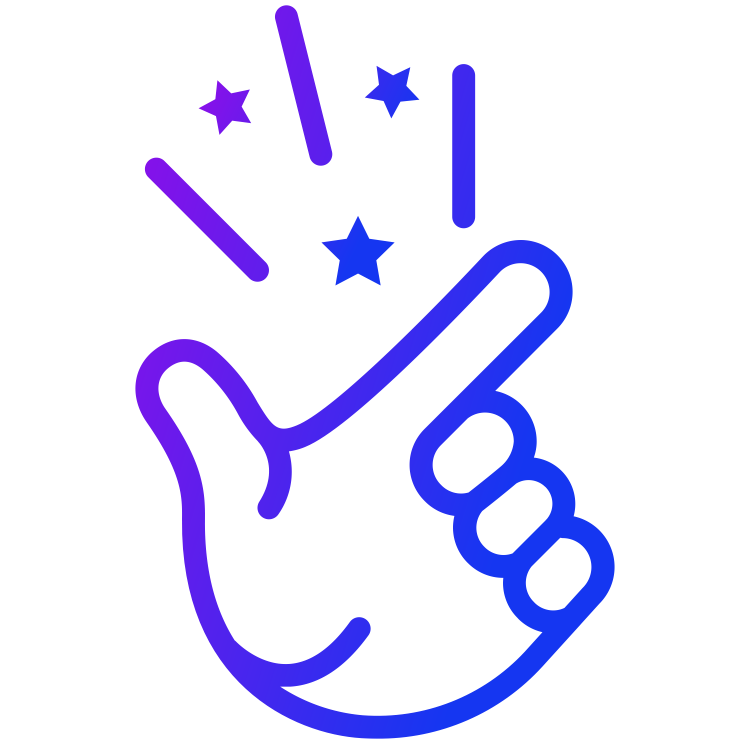
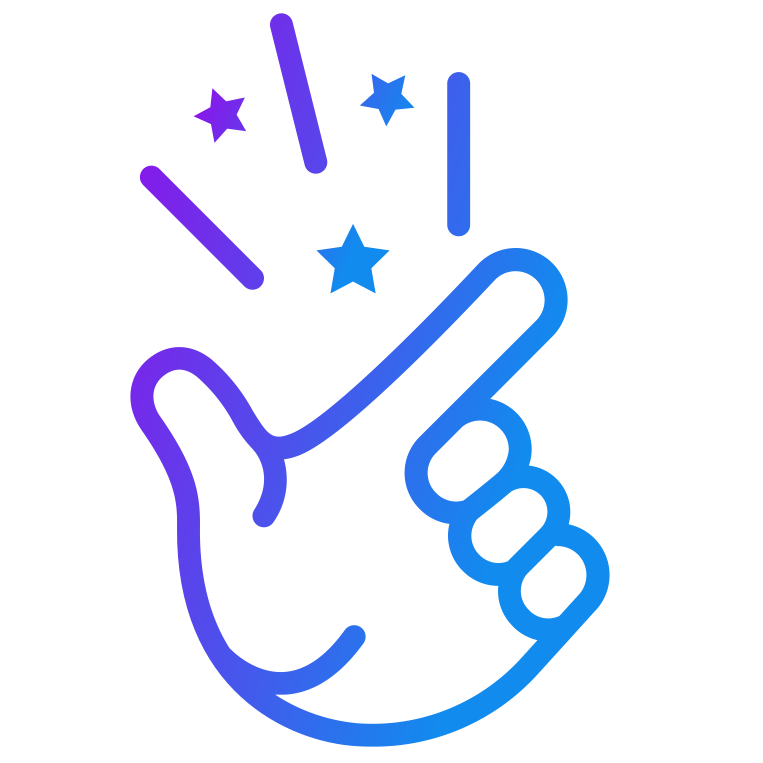
color update

diff --git a/mvp.css b/mvp.css
@@ -1,9 +1,8 @@
-/* MVP.css v1.0 - by Andy Brewer */
 :root {
     --border-radius: 5px;
     --box-shadow: 2px 2px 10px;
-    --color: #1536f1;
-    --color-accent: #1536f10b;
+    --color: #118bee;
+    --color-accent: #118bee0b;
     --color-bg: #fff;
     --color-bg-secondary: #e9e9e9;
     --color-secondary: #920de9;
@@ -11,8 +10,7 @@
     --color-shadow: #f4f4f4;
     --color-text: #000;
     --color-text-secondary: #999;
-    --hover-brightness-button: 1.4;
-    --hover-brightness-link: 1.2;
+    --hover-brightness: 1.2;
     --justify-important: center;
     --justify-normal: left;
     --line-height: 150%;
@@ -21,6 +19,8 @@
     --width-card-wide: 800px;
     --width-content: 1080px;
 }
+
+/* MVP.css v1.0 - by Andy Brewer */
 
 /* Layout */
 article aside {
@@ -193,7 +193,7 @@ a {
 }
 
 a:hover {
-    filter: brightness(var(--hover-brightness-link));
+    filter: brightness(var(--hover-brightness));
     text-decoration: underline;
 }
 
@@ -210,13 +210,9 @@ button {
     padding: 1rem 2rem;
 }
 
-a b:hover,
-a em:hover,
-a i:hover,
-a strong:hover,
 button:hover {
     cursor: pointer;
-    filter: brightness(var(--hover-brightness-button));
+    filter: brightness(var(--hover-brightness));
 }
 
 a b,
